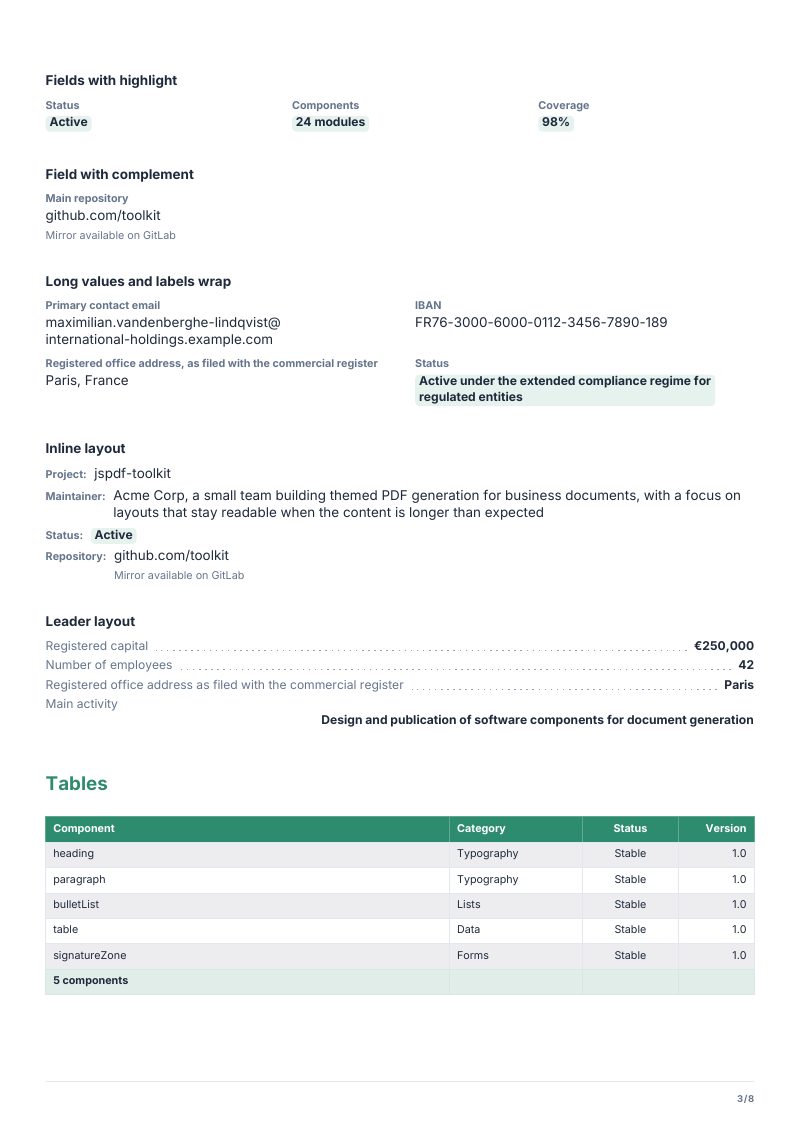
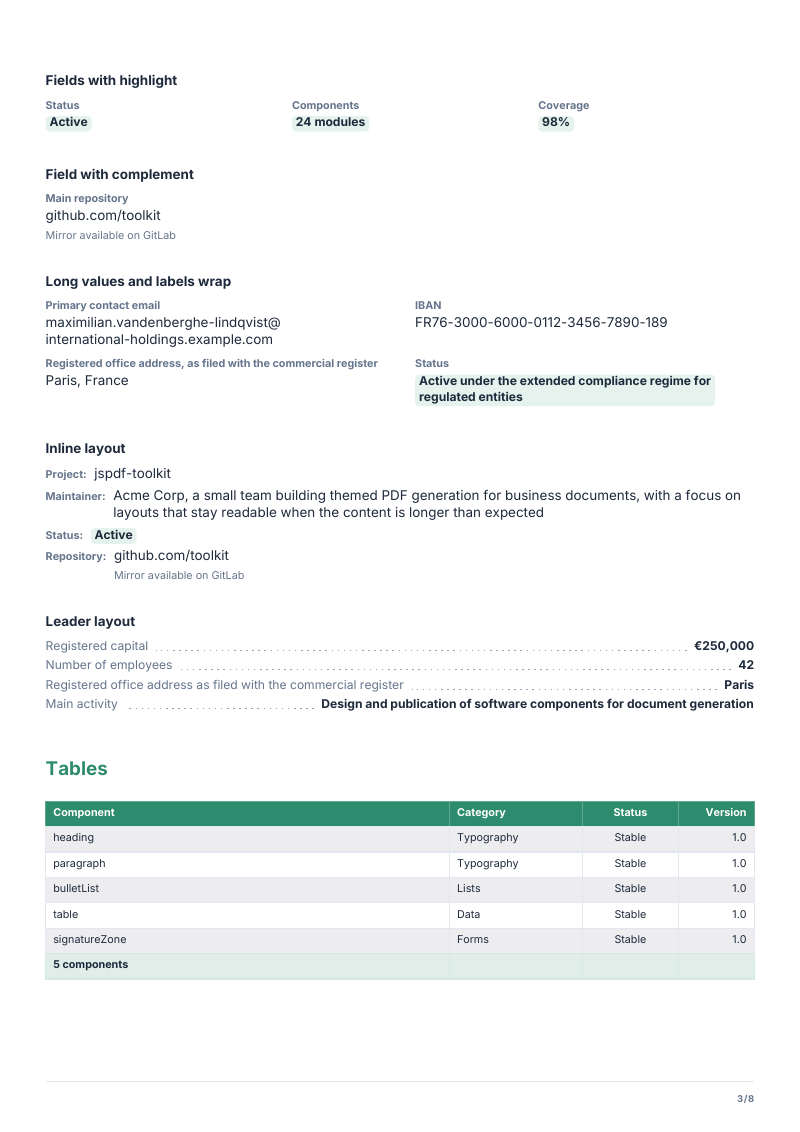
fix(fields): keep a wide one-line leader value beside its wrapping label
The half-line limit sent such a value under the label, even when the label could wrap before it.

Changed region(s): [[0.0312, 0.6493, 0.9688, 0.8966], [0.4062, 0.6184, 0.9375, 0.6493]]

diff --git a/src/drawing/rich.ts b/src/drawing/rich.ts
@@ -1,5 +1,5 @@
 import type { TextLevel } from '../core/constants';
-import { ALIGNMENTS, FIELD, LEADER, LINE_WIDTH, LIST, TEXT, ascentMm } from '../core/constants';
+import { ALIGNMENTS, LEADER, LINE_WIDTH, LIST, TEXT, ascentMm } from '../core/constants';
 import type { DrawingContext } from '../core/context';
 import {
   checkedArray,
@@ -445,8 +445,8 @@ function layoutLeaderValue(ctx: DrawingContext, value: LeaderValue, width: numbe
 
 /**
  * Single layout of a `label ..... value` row, shared by measuring and drawing. The label wraps in what the value
- * leaves on its line, dots included. A value on several lines, or wider than `FIELD.sideMaxRatio` of the row, goes
- * below the label.
+ * leaves on its line, dots included. A value on several lines, or one that would leave the label less than
+ * `LEADER.labelMinRatio` of the row, goes below the label.
  */
 export function layoutLeaderRow(ctx: DrawingContext, options: LeaderRowOptions): LeaderRowLayout {
   return withDrawingState(ctx, () => {
@@ -458,7 +458,7 @@ export function layoutLeaderRow(ctx: DrawingContext, options: LeaderRowOptions):
     // Without a required run the label only keeps a gap from the value: the dots may vanish.
     const reserved = room + LEADER.gap + (minRun > 0 ? minRun + LEADER.gap : 0);
     const labelRoom = width - (prefix?.width ?? 0) - reserved;
-    const beside = valueLines === 1 && room <= width * FIELD.sideMaxRatio && labelRoom >= width * LEADER.labelMinRatio;
+    const beside = valueLines === 1 && labelRoom >= width * LEADER.labelMinRatio;
     const placement = beside ? 'beside' : 'below';
 
     const labelWidth = beside ? labelRoom : width - (prefix?.width ?? 0);

diff --git a/tests/unit/fields.test.ts b/tests/unit/fields.test.ts
@@ -340,6 +340,29 @@ describe('inline and leader layouts', () => {
       expect(row(10).placement).toBe('beside');
     });
 
+    it('keeps a one-line value wider than half the row beside the label, which wraps', () => {
+      const doc = makeDoc({ measure: 100 });
+      const labelStyle = resolveTextStyle(doc, 'body');
+      const valueStyle = resolveTextStyle(doc, 'bodyBold');
+      const label = 'Which variations can you accept on your investment?';
+      const value = 'Portfolio C, marked variations (+20 %)';
+      const row = layoutLeaderRow(doc, {
+        label,
+        labelStyle,
+        value: { text: value, style: valueStyle },
+        width: 100,
+        lineHeight: 5,
+        minRun: FIELD.leaderMinRun,
+      });
+      setTextStyle(doc, 'bodyBold');
+      expect(doc.doc.getTextWidth(value)).toBeGreaterThan(100 * FIELD.sideMaxRatio);
+      setTextStyle(doc, 'body');
+      expect(doc.doc.getTextWidth(label)).toBeLessThan(100);
+      expect(row.placement).toBe('beside');
+      expect(row.labelLines.length).toBeGreaterThan(1);
+      expect(row.height).toBe(row.labelLines.length * 5);
+    });
+
     it('wraps a long label before the value and keeps the dots on its last line', () => {
       const doc = makeDoc({ measure: 100 });
       const line = vi.spyOn(doc.doc, 'line');

diff --git a/src/drawing/fields.ts b/src/drawing/fields.ts
@@ -51,8 +51,8 @@ export interface FieldsOptions {
    *   itself, after the label. A highlighted value keeps its pill. A label wider than half the line falls back to
    *   `'stacked'` for that field.
    * - `'leader'`: one field per line, the label on the left, the value on the right in bold or as a pill, dotted
-   *   leader between them. A value wider than half the line goes on its own right-aligned lines under the label, with
-   *   no leader.
+   *   leader between them. The label wraps before the value. A value on several lines, or one that would leave the
+   *   label less than a quarter of the line, goes on its own right-aligned lines under the label, with no leader.
    *
    * `'inline'` and `'leader'` give every field its own full-width line, so a row of `fieldRows` is a group of lines.
    *

diff --git a/src/core/constants.ts b/src/core/constants.ts
@@ -195,8 +195,8 @@ export const FIELD = {
   /** Gap between the `Label:` of an inline field and its value. */
   inlineGap: SPACING.small,
   /**
-   * Widest share of the line the side part of a one-line field may take: an inline label (wider: the field is
-   * stacked) or a leader value (wider: it drops under the label).
+   * Widest share of the line a side label may take: an inline label (wider: the field is stacked) or a header label
+   * column.
    */
   sideMaxRatio: 0.5,
   /** Shortest dotted run between a leader label and its value. */

diff --git a/docs/components/fields.md b/docs/components/fields.md
@@ -25,11 +25,11 @@ of a plain one.
 
 `layout` picks how a field is drawn.
 
-| `layout`              | Result                                                                                                               |
-| --------------------- | -------------------------------------------------------------------------------------------------------------------- |
-| `'stacked'` (default) | Label above value; the fields of a row sit side by side in columns.                                                  |
-| `'inline'`            | One field per line, `Label: value`. A long value wraps under itself.                                                 |
-| `'leader'`            | One field per line, label left, value right, dotted leader between. A long value goes right-aligned under the label. |
+| `layout`              | Result                                                                                                                                          |
+| --------------------- | ----------------------------------------------------------------------------------------------------------------------------------------------- |
+| `'stacked'` (default) | Label above value; the fields of a row sit side by side in columns.                                                                             |
+| `'inline'`            | One field per line, `Label: value`. A long value wraps under itself.                                                                            |
+| `'leader'`            | One field per line, label left, value right, dotted leader between. The label wraps before the value; a long value goes right-aligned under it. |
 
 <!-- preview: fields-inline -->
 
@@ -114,12 +114,12 @@ doc.fieldRows([
 
 <!-- options: FieldsOptions -->
 
-| Option        | Type          | Default                                                                                                                                   | Description                                                                                                                                                                                                                                                                                                                                                                                                                                                                                                                                                                                                                                                                                                                                                                                                                                                                                                                                                                                                                                                      |
-| ------------- | ------------- | ----------------------------------------------------------------------------------------------------------------------------------------- | ---------------------------------------------------------------------------------------------------------------------------------------------------------------------------------------------------------------------------------------------------------------------------------------------------------------------------------------------------------------------------------------------------------------------------------------------------------------------------------------------------------------------------------------------------------------------------------------------------------------------------------------------------------------------------------------------------------------------------------------------------------------------------------------------------------------------------------------------------------------------------------------------------------------------------------------------------------------------------------------------------------------------------------------------------------------- |
-| `spaceAfter`  | `number`      | `theme.spacing.block`                                                                                                                     | Space (mm) under the block: under the last row for `fieldRows`.                                                                                                                                                                                                                                                                                                                                                                                                                                                                                                                                                                                                                                                                                                                                                                                                                                                                                                                                                                                                  |
-| `rowGap`      | `number`      | `SPACING.small` for `'stacked'`, `SPACING.medium` for `'inline'` and `'leader'`, whose fields of a row are already `SPACING.xsmall` apart | Space (mm) between two rows of `fieldRows`: 0 or more.                                                                                                                                                                                                                                                                                                                                                                                                                                                                                                                                                                                                                                                                                                                                                                                                                                                                                                                                                                                                           |
-| `layout`      | `FieldLayout` |                                                                                                                                           | - `'stacked'` (default): the label above the value, the fields of a row side by side in columns. - `'inline'`: one field per line, `Label: value` (the `labelSuffix` follows the label). A long value wraps under itself, after the label. A highlighted value keeps its pill. A label wider than half the line falls back to `'stacked'` for that field. - `'leader'`: one field per line, the label on the left, the value on the right in bold or as a pill, dotted leader between them. A value wider than half the line goes on its own right-aligned lines under the label, with no leader. `'inline'` and `'leader'` give every field its own full-width line, so a row of `fieldRows` is a group of lines. The text levels a theme restyles (`typography.levels`) for each layout: `'stacked'` and `'inline'` set the label in `fieldLabel` and the value in `fieldValue`; `'leader'` sets the label in `body` (in the color of `fieldLabel`) and the value in `bodyBold`, so a leader row reads as a line of text. A complement is set in `smallMuted`. |
-| `labelSuffix` | `string`      | `':'`                                                                                                                                     | Text set right after the label of an `'inline'` field, before the gap that precedes the value. Another language or style writes its own (`'\u00a0:'` with a no-break space, `'\u00a0–'`), and an empty string leaves it out. It is part of the label for the measure: it counts in the width the value is placed after and in the test that sends a too wide label to the stacked layout, where the field shows its label without the suffix. Only `'inline'` has one: with `'stacked'` (the default) or `'leader'` the option throws an `InvalidOptionError`, like an option of another variant.                                                                                                                                                                                                                                                                                                                                                                                                                                                                |
+| Option        | Type          | Default                                                                                                                                   | Description                                                                                                                                                                                                                                                                                                                                                                                                                                                                                                                                                                                                                                                                                                                                                                                                                                                                                                                                                                                                                                                                                                                                                    |
+| ------------- | ------------- | ----------------------------------------------------------------------------------------------------------------------------------------- | -------------------------------------------------------------------------------------------------------------------------------------------------------------------------------------------------------------------------------------------------------------------------------------------------------------------------------------------------------------------------------------------------------------------------------------------------------------------------------------------------------------------------------------------------------------------------------------------------------------------------------------------------------------------------------------------------------------------------------------------------------------------------------------------------------------------------------------------------------------------------------------------------------------------------------------------------------------------------------------------------------------------------------------------------------------------------------------------------------------------------------------------------------------- |
+| `spaceAfter`  | `number`      | `theme.spacing.block`                                                                                                                     | Space (mm) under the block: under the last row for `fieldRows`.                                                                                                                                                                                                                                                                                                                                                                                                                                                                                                                                                                                                                                                                                                                                                                                                                                                                                                                                                                                                                                                                                                |
+| `rowGap`      | `number`      | `SPACING.small` for `'stacked'`, `SPACING.medium` for `'inline'` and `'leader'`, whose fields of a row are already `SPACING.xsmall` apart | Space (mm) between two rows of `fieldRows`: 0 or more.                                                                                                                                                                                                                                                                                                                                                                                                                                                                                                                                                                                                                                                                                                                                                                                                                                                                                                                                                                                                                                                                                                         |
+| `layout`      | `FieldLayout` |                                                                                                                                           | - `'stacked'` (default): the label above the value, the fields of a row side by side in columns. - `'inline'`: one field per line, `Label: value` (the `labelSuffix` follows the label). A long value wraps under itself, after the label. A highlighted value keeps its pill. A label wider than half the line falls back to `'stacked'` for that field. - `'leader'`: one field per line, the label on the left, the value on the right in bold or as a pill, dotted leader between them. The label wraps before the value. A value on several lines, or one that would leave the label less than a quarter of the line, goes on its own right-aligned lines under the label, with no leader. `'inline'` and `'leader'` give every field its own full-width line, so a row of `fieldRows` is a group of lines. The text levels a theme restyles (`typography.levels`) for each layout: `'stacked'` and `'inline'` set the label in `fieldLabel` and the value in `fieldValue`; `'leader'` sets the label in `body` (in the color of `fieldLabel`) and the value in `bodyBold`, so a leader row reads as a line of text. A complement is set in `smallMuted`. |
+| `labelSuffix` | `string`      | `':'`                                                                                                                                     | Text set right after the label of an `'inline'` field, before the gap that precedes the value. Another language or style writes its own (`'\u00a0:'` with a no-break space, `'\u00a0–'`), and an empty string leaves it out. It is part of the label for the measure: it counts in the width the value is placed after and in the test that sends a too wide label to the stacked layout, where the field shows its label without the suffix. Only `'inline'` has one: with `'stacked'` (the default) or `'leader'` the option throws an `InvalidOptionError`, like an option of another variant.                                                                                                                                                                                                                                                                                                                                                                                                                                                                                                                                                              |
 
 <!-- /options -->
 

diff --git a/CHANGELOG.md b/CHANGELOG.md
@@ -6,6 +6,12 @@ All notable changes to this project are documented here. The format follows
 
 ## [Unreleased]
 
+### Changed
+
+- `fields(…, { layout: 'leader' })`: a one-line value wider than half the line stays beside the label, which wraps
+  before it. It goes under the label only on several lines, or when it would leave the label less than a quarter of
+  the line.
+
 ## [0.6.0] - 2026-11-19
 
 ### Added
